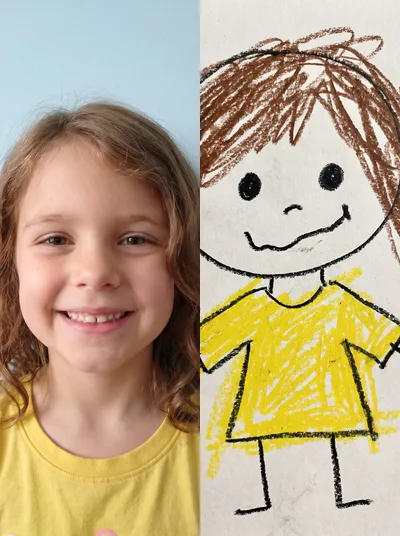
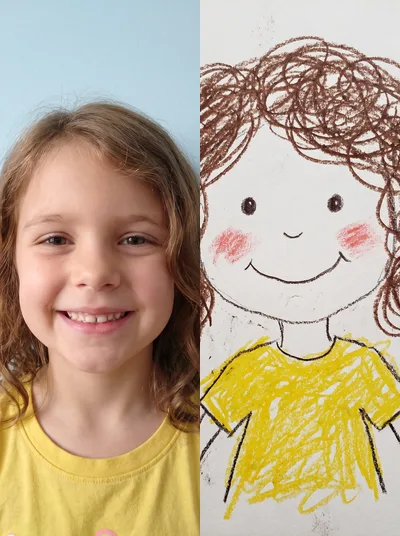
fix(782,787): 유치원생 낙서가 얼굴을 망가뜨리던 것 + 여백 드로잉 개코 문제
■ 782 유치원생 낙서 — 결과가 너무 심했다
  오너가 뷰티 포트레이트로 돌린 결과(user_gallery 520, 08-21 01:16 KST)를 보고
  신고. 얼굴 전체를 분홍 크레용으로 덧칠해 얼룩덜룩해지고, 눈이 검게 파이고,
  이빨선 있는 입이라 섬뜩했다. 사람을 못생기게 만드는 컨셉이 돼 있었다.

  네 번 돌려가며 잡았고, 중간에 두 번 헛짚었다:
   1) 얼굴 보호 규칙만 넣었더니 → 매끈한 디지털 카툰이 됐다. "크레용 질감이랑
      rough drawing 느낌을 살려야 한다"는 지적을 받고 물성 표현을 복구.
   2) "short stubby limbs" 를 넣었더니 → 머리 만지는 포즈에서 팔이 몸에서
      끊긴 몽당 스틱으로 나왔다. 포즈를 그대로 그려야 한다는 지적.
   3) 선이 여전히 매끈하고 눈이 좌우 대칭 → "cute character / adorable / 동그란
      눈" 같은 표현이 모델을 '잘 그린 캐릭터 일러스트' 로 끌어당기고 있었다.
      그 표현을 전부 걷어내고 원래의 crude 표현으로 되돌린 뒤 얼굴 보호만
      최소로 얹는 방식으로 바꿔서 해결.

  최종: 거친 크레용 물성(왁스 뭉침·종이결 건너뜀·떨리는 선·번짐)은 그대로 두되,
  얼굴에만 예외를 건다 — 피부는 맨종이로 두고(덧칠·해칭 금지), 색은 볼터치
  두 점만, 눈은 점, 입은 곡선 하나. 이빨·잇몸·주름·움푹한 눈·얼룩덜룩한 피부
  금지. 팔은 어깨에서 손까지 이어 그리고 사진의 포즈를 유지.

■ 787 여백 드로잉 — 사람 코를 강아지 코로 그렸다
  "one solid black blob for a nose" 라고 써놨는데, 이건 강아지 레퍼런스를 보고
  쓴 문장이었다. 사람 얼굴에 그대로 먹혀 개코가 됐다.
  1차 수정에서 "or left out entirely" 를 넣었더니 이번엔 코를 아예 안 그렸다.
  → "코는 반드시 그린다. 사람은 작은 선/곡선, 검은 덩어리는 동물만."

  같이: "대상의 특징을 심플한 선으로" 지시 추가. 레이스·니트·털·머리카락 가닥·
  주름·프린트 같은 텍스처를 꼬불꼬불 다 그리고 있어서 "가장 적은 선" 원칙과
  어긋났다 — 전부 한 겹 외곽선으로 납작하게 만들거나 버린다.

검증: 오너 사진(업로드본)으로 실제 서버 문자열(래퍼+컨셉) 그대로 생성해
782·787 각각 확인. 썸네일 2장도 최종 프롬프트로 재생성.
main 624종 / fallback 346종, 두 컨셉 프롬프트 일치, 썸네일 누락 0.
sw v68 → v69.

Changed region(s): [[0.48, 0.0299, 1.0, 1.0], [0.93, 0.9851, 0.96, 1.0]]

diff --git a/public/sw.js b/public/sw.js
@@ -10,7 +10,7 @@
 // 새 버전 배포 시: 아래 VERSION 만 올리면 됨.
 // ============================================================
 
-const VERSION = "v68";
+const VERSION = "v69";
 const STATIC_CACHE = `rimikimi-static-${VERSION}`;
 const THUMB_CACHE = `rimikimi-thumbs-${VERSION}`;
 const DATA_CACHE = `rimikimi-data-${VERSION}`;
